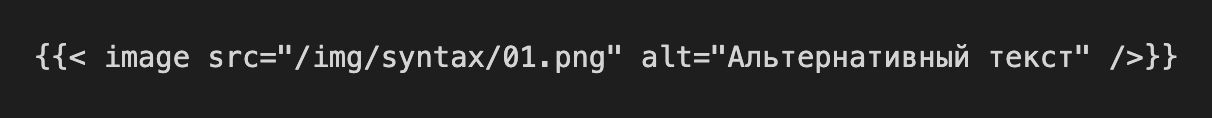
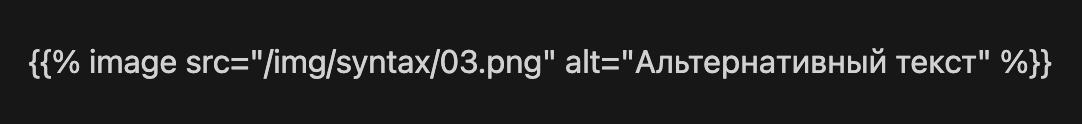
vault backup: 2024-01-05 23:08:32

Changed region(s): [[0.0, 0.3559, 0.976, 0.6356]]

diff --git a/content.ru/docs/Practice/buy/newbie-buy.md b/content.ru/docs/Practice/buy/newbie-buy.md
@@ -1,0 +1,103 @@
+---
+title: "Покупка и хранение биткоина для новичков"
+h1: Покупка и хранение биткоина для новичков
+cover: /img/newbie-buy/cover.png
+tags: ["биткоин", "покупка", "no-kyc", "приватность", "новичкам"]
+description: "Простейший способ покупки биткоинов для новичков."
+url: newbie-buy
+date: 2022-12-06
+bookFlatSection: false
+bookToc: false
+weight: 1
+---
+
+## Предисловие
+
+В силу сложившейся ситуации в России и мире я решил написать этот гид по покупке биткоина для новичков откинув любые рассуждения о том, где и как лучше это делать, о минусах и плюсах разных вариантов, типах кошельков и тому подобном. В этом материале я опишу лишь кратчайший способ покупки биткоина с нулевыми навыками и опытом.
+
+Я сам, основываясь на собственном опыте и знаниях, выбрал, на мой взгляд, наилучшие ресурсы с расчётом, что этот мануал подойдёт даже людям далёким от биткоина. Так что вы можете скидывать этот материал своим близким и друзьям, кто просто хочет уберечь свои сбережения.
+
+{{< hint btc >}}
+Здесь не будет информации о [multisignature](https://old.21ideas.org/tag/multisig/), [p2p-сервисах](https://youtu.be/aZQ-9rZG0-w?ref=old.21ideas.org), [настройке узлов](https://old.21ideas.org/practical-why-run-own-node-part-1/) и подобных комплексных топиках. Данный гид описывает простейший, сбалансированный способ покупки биткоина **для каждого**!
+{{< /hint >}}
+
+Ниже я поясню причину выбора именно тех сервисов, которые будут описаны в этом гиде.
+
+Для хранения и перевода биткоинов я выбрал **BlueWallet**, потому что он сочетает в себе простоту и весь необходимый функциональный запас, который может пригодиться новичку в будущем, если тот решил получать новые знания.
+
+Для покупки биткоина мы будем использовать агрегатор обменников – bestchange. На нём можно в кратчайшие сроки и по актуальному курсу купить биткоин без необходимости проходить KYC-проверки и делиться личными данными.
+
+После покупки биткоина, возможно, вам захочется получше изучить его. Получить новые и расширить старые знания о биткоине с технической, экономической и философской сторон можно на сайте 21ideas.org. Это самый полный русскоязычный портал с информацией о биткоине. Я советую начать с [этого](https://youtu.be/LrmhcaD6Cfg?ref=old.21ideas.org) и [этого](https://youtu.be/j9-4OnxOto8?ref=old.21ideas.org) видео, а затем приступить к изучению сайта и его разделов.
+
+## Настройка BlueWallet
+
+Скачиваем BlueWallet и запускаем клиент на своем устройстве. Нам необходимо создать новый кошелёк, на который мы будем получать и с которого будем отправлять наши биткоины. 
+
+Ссылка на скачивание для iOS и Android: https://bluewallet.io
+
+{{< hint info >}}
+Я буду показывать примеры в настольной версии кошелька, но все элементы приложения выглядят одинаково на всех платформах, так что у вас не должно возникнуть проблем с настройкой на смартфоне.
+{{< /hint >}}
+
+![bluewallet](/img/newbie-buy/01.png)
+
+После запуска кошелька нажимаем "Добавить кошелёк". Приложение попросит вас придумать (любое) название и выбрать тип кошелька – выбираем "Bitcoin". Затем просто нажимаем "Создать".
+
+![bluewallet](/img/newbie-buy/02.png)
+
+Прежде чем начать принимать и отправлять ваши биткоины, обратите внимание – **ЭТО ОЧЕНЬ ВАЖНО** – у вас на экране появятся 12 слов на латинице, которые нужно будет записать на бумагу в правильном порядке. Не в заметки на смартфон, не скриншотом экрана, не сообщением в "избранное" в Telegram, а на бумагу и **только** на бумагу.
+
+{{< hint danger >}}
+Эти 12 слов – единственная возможность восстановить ваши средства в случае утери, кражи или поломки вашего устройства. Потеряете эти 12 слов – попрощайтесь с вашими биткоинами. Даже если с вашим устройством ничего не случится физически, всегда есть риск, что ваши ключи улетят к злоумышленникам, если они получат доступ к вашему устройству. Отнеситесь к этому шагу со всей серьёзностью, от этого зависит сохранность ваших денег.
+{{< /hint >}}
+
+После того, как вы записали вашу сид-фразу, подтвердите это на экране устройства. Готово. Теперь вы можете начать принимать и отправлять биткоины! Чтобы получить монеты, нажмите на карточку вашего кошелька, где написано "0 BTC" и выберите "Получить". В открывшемся окне вы увидите ваш биткоин-адрес в виде QR-кода и текста. Адреса чаще всего начинаются с 1, 3 или bc1.
+
+![bluewallet](/img/newbie-buy/03.png)
+
+## Покупка биткоина
+
+После настройки вашего кошелька нам остаётся только купить биткоин. Для этого будем использовать обменники с сайта [bestchange](https://www.bestchange.ru/?ref=old.21ideas.org).
+
+Bestchange – это агрегатор обменников, по аналогии с AviaSales, который не продает билеты напрямую, но показывает вам в удобном виде предложения других сервисов. Я выбрал именно этот ресурс, потому что он быстрый, удобный и, что немаловажно, выгодный. Сейчас из-за санкций многие централизованные сервисы по покупке биткоина перестают работать, поэтому важно выбрать именно тот, который останется актуальным на момент прочтения этого материала в будущем.
+
+Все обменники на bestchange проверены, так что можно не бояться, что где-то вас обманут. **Но** есть несколько нюансов, которые стоит учитывать.
+
+![bestchange](/img/newbie-buy/04.png)
+
+На сайте достаточно простая навигация, если знать какой параметр за что отвечает. Давайте разбираться.
+
+Слева есть 2 зелёных столбца. В левом вы выбираете способ оплаты. Предположим у вас рубли на карте Сбера. Значит выбираем Сбер. В правом столбце вы выбираете что будете покупать. В нашем случае это биткоин (BTC). Он занимает первое место в столбце.
+
+После выбора этих двух параметров сайт автоматически обновляется и выдаёт вам релевантные обменники в центральной части экрана. У сайта есть короткое видео о том, как он работает. Вы можете посмотреть его [тут](https://youtu.be/hgx0IScTiQM?ref=old.21ideas.org). Я объясню только основные моменты, необходимые для покупки.
+
+1. Над списком обмена есть кнопка "Калькулятор"; нажмите на неё и введите сумму, которую планируете обменять на биткоин. Нажмите "Рассчитать" справа и сайт снова обновится, выдав те обменники, которые могут продать вам биткоин на эту сумму.
+2. Сервис автоматически сортирует все обменники по цене ВТС от меньшей к большей – чем выше обменник, тем он выгоднее для вас.
+3. В самой правой колонке указано количество отрицательных и положительных отзывов об обменнике. Если у обменника есть хотя бы несколько отрицательных отзывов, **советую выбрать другой**.
+4. Рядом с названиями обменников, как это показано на скриншоте выше, располагаются зелёные иконки. Если вы не хотите проходить процедуры подтверждения документов и карты, то **воздержитесь** от покупки биткоина на подобных площадках. Вы можете навести указатель на иконки рядом с названием, и сайт покажет их значение в выпадающем сообщении.
+
+{{% image src="/img/newbie-buy/05.png" alt="К примеру, данный обменник не имеет иконки ключа или банковской карты, а значит не потребует от вас регистрации или подтверждения карты." %}}
+_К примеру, данный обменник не имеет иконки ключа или банковской карты, а значит не потребует от вас регистрации или подтверждения карты._
+{{% /image %}}
+
+После выбора щёлкаете на обменник и переходите на его сайт. Я не знаю, что вы выберете, поэтому дальше опишу стандартные действия для большинства случаев и каких действий не стоит бояться. Выбирайте обменник, который визуально не напугает вас своей сложностью. Все мы когда-то были новичками и важно в начале не наделать ошибок из-за сложного интерфейса.
+
+При обмене средств на сайтах без регистрации/проверки карты вы просто должны будете ввести свой биткоин-адрес, который мы с вами получили в BlueWallet, а также ввести номер своей карты, с которой будет производиться оплата. Возможно попросят внести email-адрес, на который придёт информация о сделке. Советую написать адрес, к которому у вас есть доступ, на случай возникновения проблем со сделкой. Если не хотите вписывать свой адрес, то всегда можно создать новый email для обменников – никто не будет проверять его.
+
+После заполнения информации для обмена, на следующей странице вам дадут номер сделки и заморозят курс на время её совершения. Далее, обычно дают реквизиты карты, на которую необходимо перевести деньги. Делайте это внимательно и не вводите данные вручную – лучше скопировать из со страницы обмена.
+
+После оплаты нажмите кнопку «Оплатил», если такая имеется (если нет, то просто ждите пока обменник заметит поступление ваших средств) и ждите проведения операции и поступления денег на ваш биткооин-кошелёк. 
+
+Операция может занять до 50 минут и дело не только в работе обменника. Сеть Биткоина должна подтвердить транзакцию, совершённую обменником. При высоких нагрузках это занимает некоторое время. В любом случае не закрывайте окно сделки, пока не увидите поступившие средства в вашем кошельке. 
+
+{{< hint info >}}
+Я не рекомендую использовать [сервисы, которые просят вас подтвердить вашу личность](https://old.21ideas.org/privacy-no-kyc/), но **допустимо** использовать сервисы с подтверждением банковской карты. Процедура подтверждения на таких сайтах заключается в отправке фотографии с номером карты на фоне сделки. Если курс в подобных обменниках значительно выгоднее, то можно рассмотреть такую опцию, но я бы всё равно старался воздерживаться от подобных сервисов.
+{{< /hint >}}
+
+## В завершение
+
+1. Никогда **не показывайте** вашу сид-фразу (12 слв), которую вы записали на бумагу при настройке кошелька. В этой фразе заключается полный контроль над вашим кошельком и единственная возможность его восстановить в случае утраты доступа.
+2. Старайтесь обходить сервисы с KYC (подтверждение личности). Биткоин — это ваша собственность. Где, сколько и как вы хотите хранить свою собственность – только ваше дело.
+3. Если вы хотите пополнить знания о биткоине, изучите другие статьи на сайте [21ideas.org](https://old.21ideas.org/), на котором вы сейчас находитесь.
+4. Если у вас остались вопросы, [напишите](https://21ideas.org/feedback/) нам.
+5. Больше информации о том, зачем и как самостоятельно хранить биткоин, можно найти [здесь](https://21ideas.org/practice/).

diff --git a/content.ru/docs/Contribute/syntax.md b/content.ru/docs/Contribute/syntax.md
@@ -145,11 +145,10 @@ __жирного шрифта__
 Этот шорткод также позволяет указывать альтернативный текст к изображению. Эта функция полезна для незрячих, так как специальные приложения для чтения веб страниц смогут озвучить этот текст и дать общее представление об изображении. Более того, в случае невозможности отображения изображения (например, в силу технических неполадок) альтернативный текст также будет показан. Чтобы добавить альтернативный текст, используйте следующий синтаксис: 
 
 {{% image src="/img/syntax/03.png" alt="Альтернативный текст" %}}
-_Пример изображения с описанием_
+_Пример изображения с альтернативным текстом_
 {{% /image %}}
 
 {{< /hint >}}
-
 
 ### Изображения с описанием
 

diff --git a/content.ru/docs/Practice/buy/hodl-hodl.md b/content.ru/docs/Practice/buy/hodl-hodl.md
@@ -9,7 +9,7 @@ aliases: ['/practical-hodl-hodl-guide']
 date: 2022-02-21
 bookFlatSection: false
 bookToc: true
-weight: 1
+weight: 2
 ---
 
 Один из лучших способов покупки биткоинов, не требующий документов.
